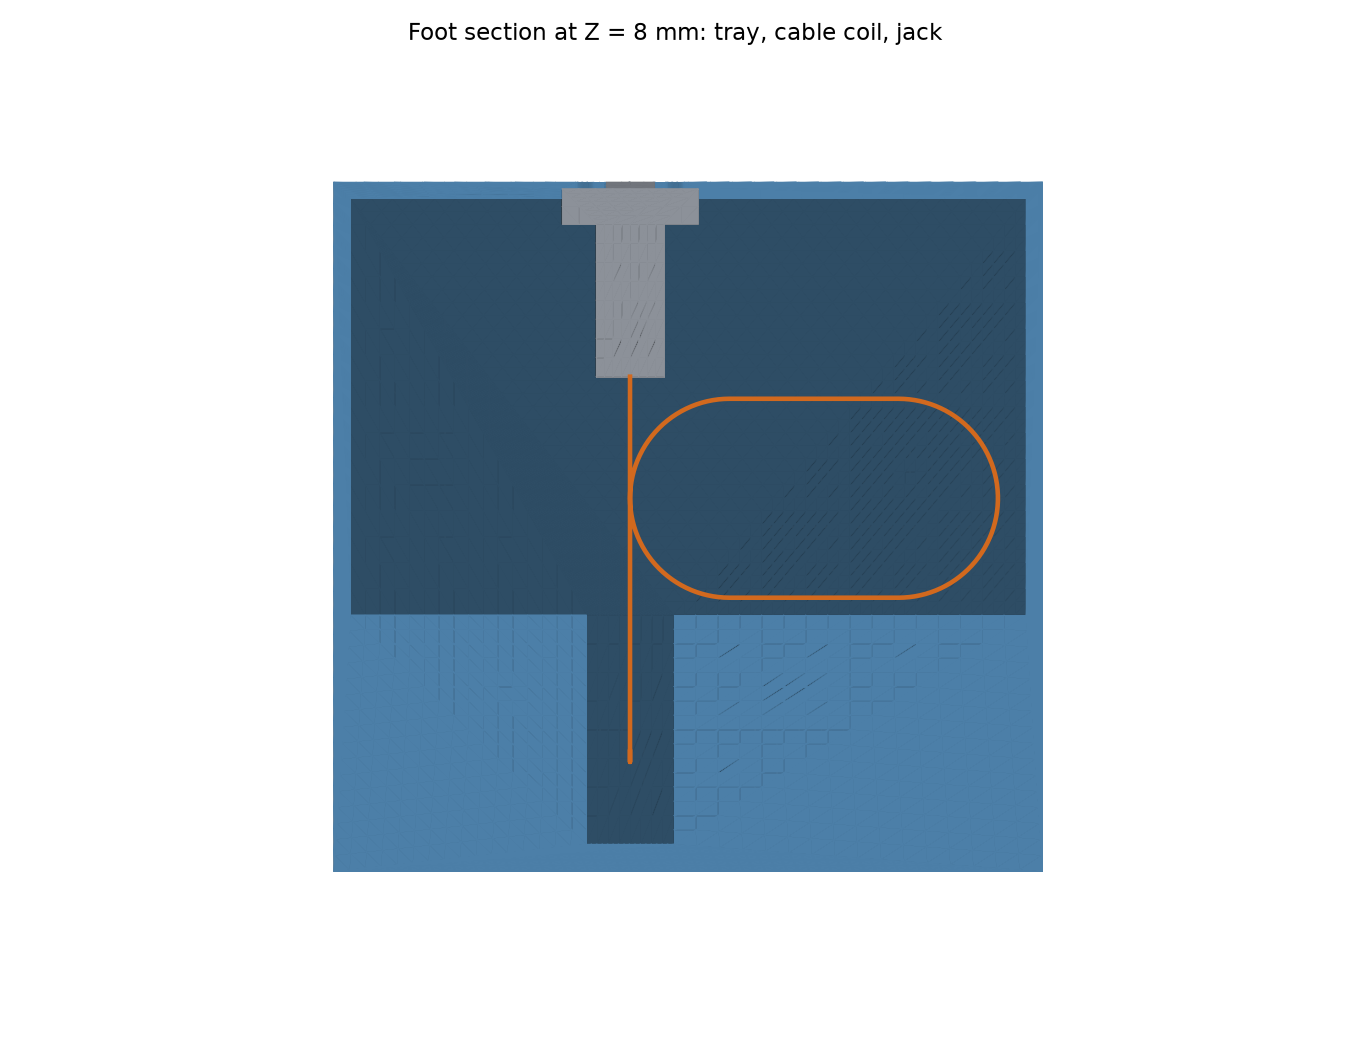
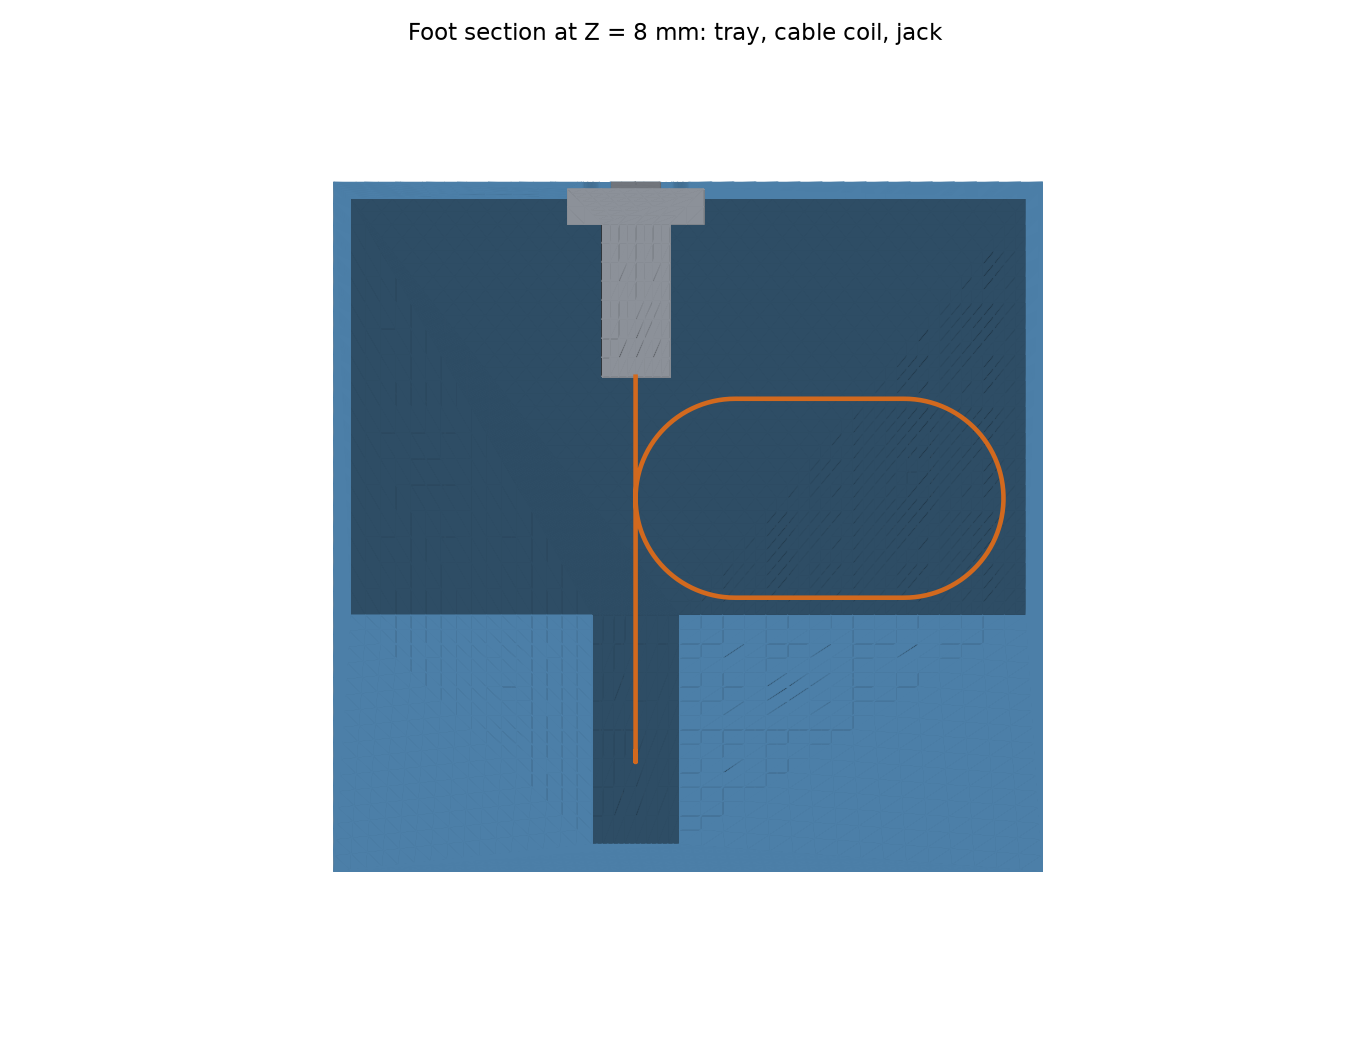
fix: COM-442 centre the espframe stand foot on the frame
The foot was centred on the glass, but the frame is centred on the active
area, which sits 1.02 mm left of the glass centre, so the printed frame
overhung the foot on the left and the foot stuck out on the right.
layout() now centres the foot on FRAME_X; the tray, lid rabbet, lid,
detents and lift slot follow it, while the dovetail post, tunnel, deck
slot and jack stay put under the screen. A new check keeps the frame's
left and right overhang equal within 0.1 mm. Only the foot needs a reprint.

diff --git a/apps/espframe/hardware/stand/stand/checks.py b/apps/espframe/hardware/stand/stand/checks.py
@@ -187,6 +187,11 @@ def run(parts: dict) -> list:
         f"face bottom edge (square, {p.FRAME_FACE_T:.0f} mm) and side walls sit on {p.FELT_T:.0f} mm felt on the ledge; "
         f"screen raised {p.RISE:.2f} mm; "
         f"frame-to-foot overlap {(frame_w & foot).volume:.4f} mm³, closest {frame_w.distance_to(foot):.2f} mm")
+    fb, ob = frame_w.bounding_box(), foot.bounding_box()
+    over_l, over_r = ob.min.X - fb.min.X, fb.max.X - ob.max.X
+    add("Frame and foot share a centre line", abs(over_l - over_r) <= 0.1,
+        f"frame overhangs the foot by {over_l:.2f} mm left / {over_r:.2f} mm right (need equal within 0.1; "
+        f"negative = foot sticks out)")
     engage = min(p.DOVE_GROOVE_L, p.DOVE_RAIL_L - p.SEAT) - max(0.0, -p.SEAT)
     add("Dovetail engagement", engage >= p.MIN_DOVE_ENGAGE,
         f"{engage:.1f} mm of the {p.DOVE_RAIL_L:.0f} mm rail inside the groove (need ≥ {p.MIN_DOVE_ENGAGE:.0f})")

diff --git a/apps/espframe/hardware/stand/stand/foot.py b/apps/espframe/hardware/stand/stand/foot.py
@@ -24,8 +24,10 @@ class FootLayout:
 
 
 def layout() -> FootLayout:
-    side = (p.FOOT_W - p.GLASS_W) / 2
-    x0, x1 = -side, p.GLASS_W + side
+    # Centred on the picture frame, not the glass: the frame follows the active area, which sits
+    # 1 mm left of the glass centre (COM-442).
+    cx = sum(p.FRAME_X) / 2
+    x0, x1 = cx - p.FOOT_W / 2, cx + p.FOOT_W / 2
     in_x0, in_x1 = x0 + p.WALL, x1 - p.WALL
     front = screen_point(0, -p.SEAT, -(p.FRAME_FACE_GAP + p.FRAME_FACE_T + p.LEDGE_OVER))
     z_deck = screen_point(0, -p.SEAT, p.D_PLATE_BACK + p.POST_FACE_CLEAR).Z

diff --git a/apps/espframe/hardware/stand/README.md b/apps/espframe/hardware/stand/README.md
@@ -20,6 +20,7 @@ A 3D-printable portrait desk stand for the 7" espframe (Waveshare ESP32-S3-Touch
   - It fills the frame out to its walls (0.3 mm clear), so the back is closed at the sides and top, with a 2.3 mm gap left along the bottom between the plate edge and the ledge felt (the frame has no bottom wall since COM-431), and carries the frame on four screws near its side edges.
   - Two rows of vent slots low down and two near the top (4 slots of 20 × 3 mm each) let air through, since the back is otherwise closed.
 - **Foot (PETG).** The plate slides down onto a dovetail rail on the foot's post, and the frame's face settles on the felted ledge (20 mm high). The screen leans back at 15°, like a desktop picture frame (10° before COM-417).
+  - It's centred on the frame, not the glass (COM-442), so the frame lines up with both ends of the foot.
   - No ballast: the printed stand was sturdy without it, and the front under the ledge is solid. The foot is 120 mm deep.
   - The tray is open on top and closed with a lid that clicks in: two small ridges on each long edge snap into grooves in the tray's rim. Prise it out at the slot in its front-right corner.
 - **Power and data.** A Poyiccot USB 3.1 panel-mount extension (straight, 30 cm) passes every pin through:
@@ -27,6 +28,13 @@ A 3D-printable portrait desk stand for the 7" espframe (Waveshare ESP32-S3-Touch
   - The lead drops through a notch in the plate, past the open bottom of the frame and through the deck slot, bends at R18, lies as one loose coil in the tray, and ends at the panel jack in the rear wall.
   - Any USB-C charger works, and you can flash or read logs through the stand without taking it apart.
 - **Orientation.** The board's USB edge goes down: the landscape panel turned 90° counter-clockwise, seen from the front. Pick the matching rotation in the espframe settings (COM-362).
+
+## Changes in COM-442
+
+- **Foot centred on the frame.** The foot was centred on the glass, but the frame follows the picture area, which sits 1 mm left of the glass centre. On the printed stand, the frame overhung the foot's left end by 1.1 mm and the foot stuck out 0.9 mm past the frame on the right. The foot (130 mm wide) is now centred on the frame (130.2 mm), so the frame overhangs by 0.11 mm at each end. A new check keeps the two on one centre line.
+- The foot's outline, tray and lid rabbet move 1.02 mm left. The dovetail post, cable tunnel, deck slot and jack stay where they were under the screen. Every other check result is unchanged. The coil keeps 1.9 mm to the tray's right wall (was 2.9).
+
+**What to reprint:** only the foot. The lid only moves with the tray and its shape is unchanged, so keep yours. The frame and plate don't change.
 
 ## Changes in COM-431
 
@@ -90,6 +98,7 @@ Every dimension is a named constant in [`stand/params.py`](stand/params.py), tag
 | Only the picture shows through the opening | head-on, nothing but glass inside the opening: no frame, felt, plate, spacers or plug |
 | Plate edges meet the frame bosses | flush contact, no overlap |
 | Frame screw engagement | M3 × 8 through the 3 mm plate: 5 mm into a 6 mm hole with an M3 × 4 insert |
+| Frame and foot share a centre line | the frame overhangs each end of the foot by 0.11 mm (need equal within 0.1) |
 | Frame face seats on the ledge | square bottom edge of the face and the side walls on 1 mm felt; frame to foot never closer than 1.0 mm elsewhere |
 | Jack fits its recess and window | measured flange 25 × 8 × 6.5 bears on the 1.2 mm web inside the rear wall; no overlap |
 | Receptacle flush with the rear face | the metal USB-C receptacle (1.2 mm proud of the flange) pokes through a 9.3 × 3.7 window and ends flush |
